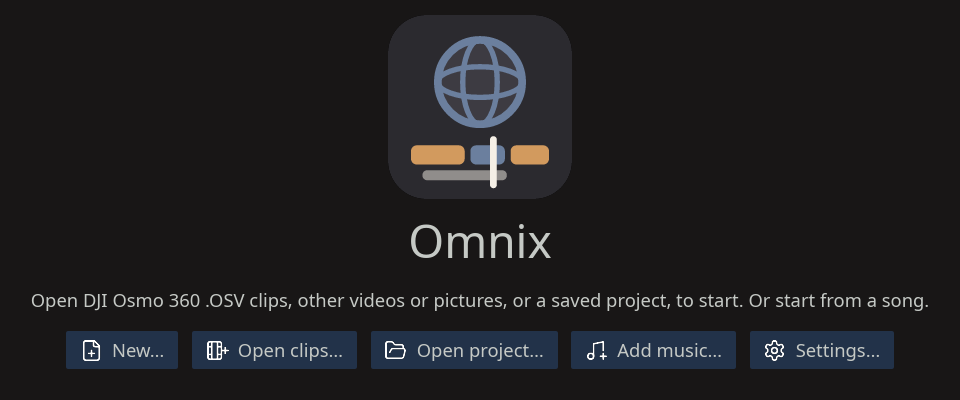
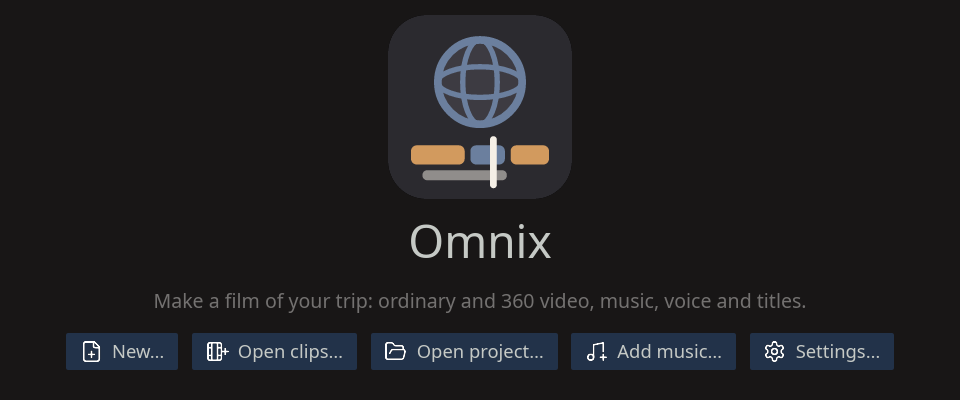
The start screen says what Omnix is, in a line
It read «Open DJI Osmo 360 .OSV clips, other videos or pictures, or a
saved project, to start. Or start from a song.»: a list of file types,
the 360 camera's first, saying again what the buttons under it say
(the user, 2026-11-14). Now «Make a film of your trip: ordinary and
360 video, music, voice and titles.», quieter, a little larger. The
guide's still shot again.

diff --git a/src/player/bars.rs b/src/player/bars.rs
@@ -18,7 +18,10 @@ impl App {
         let status: Element<'_, Message> = match (&self.loading, song) {
             (Some(_), _) => self.loading_bar(280.0),
             (None, Some(song)) => text(song).into(),
-            (None, None) => text("Open DJI Osmo 360 .OSV clips, other videos or pictures, or a saved project, to start. Or start from a song.").into(),
+            // What Omnix is, in a line; the buttons say how to start (the
+            // user, 2026-11-14: it read as a list of file types, the 360
+            // camera's first).
+            (None, None) => text("Make a film of your trip: ordinary and 360 video, music, voice and titles.").size(17).style(text::secondary).into(),
         };
         let idle = self.loading.is_none();
         let buttons = row![
